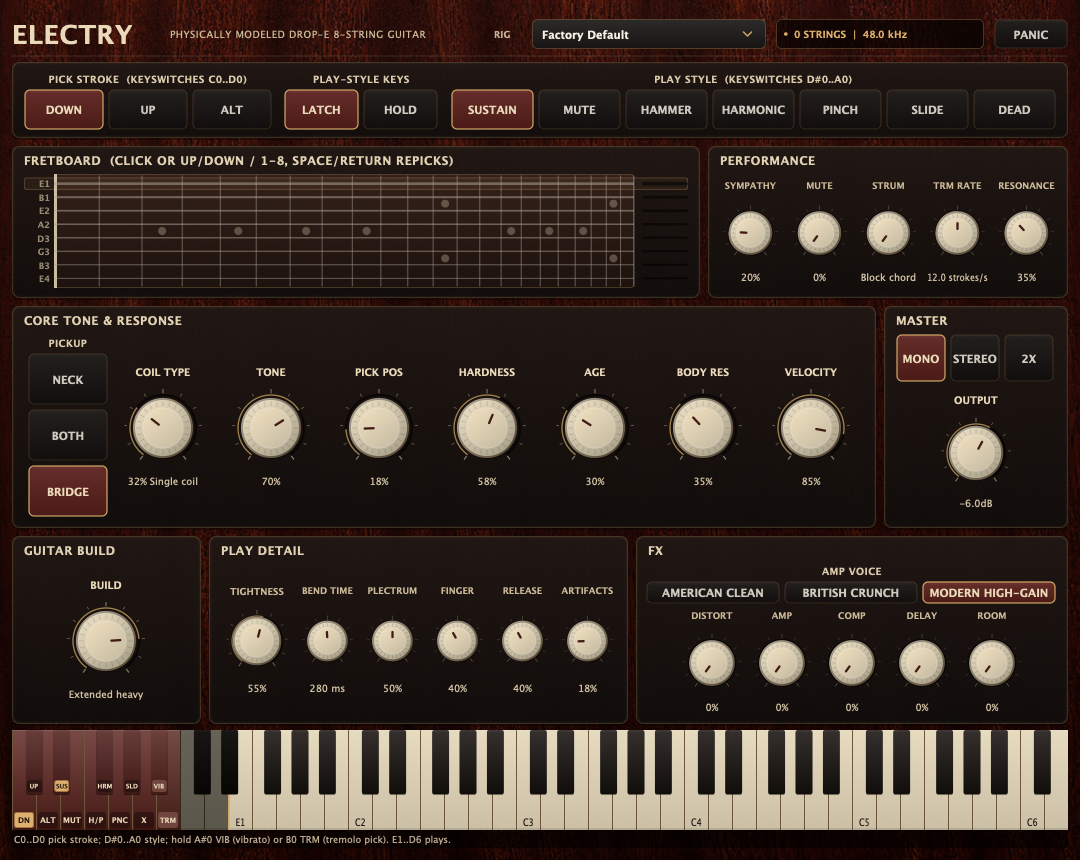
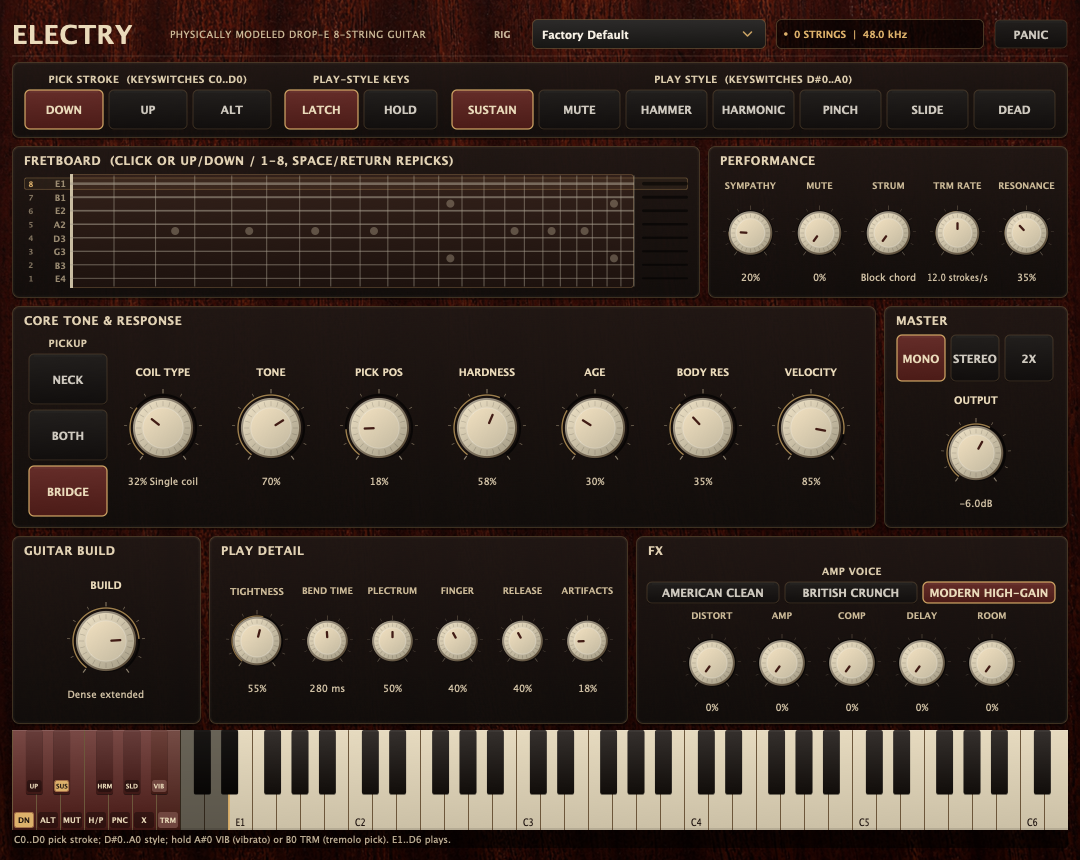
electry: label physical strings on fretboard

diff --git a/electry/Source/PluginEditor.cpp b/electry/Source/PluginEditor.cpp
@@ -976,7 +976,10 @@ void ElectryFretboardDisplay::paint (juce::Graphics& graphics)
     if (bounds.getWidth() < 120.0f || bounds.getHeight() < 40.0f)
         return;
 
-    auto tuningArea = bounds.removeFromLeft (26.0f);
+    // Keep the physical string number beside its tuning. The panel and
+    // keyboard instructions both expose 1-8 repicks, so showing only E1..E4
+    // here made that mapping needlessly implicit.
+    auto tuningArea = bounds.removeFromLeft (42.0f);
     auto meterArea = bounds.removeFromRight (54.0f);
     bounds.removeFromLeft (4.0f);
     meterArea.removeFromLeft (8.0f);
@@ -1155,13 +1158,23 @@ void ElectryFretboardDisplay::paint (juce::Graphics& graphics)
                 juce::Justification::centred);
         }
 
-        // Tuning label.
+        // Physical string number and tuning label.
+        auto labelBounds = juce::Rectangle<float> (
+            tuningArea.getX(), y - 6.0f, tuningArea.getWidth(), 12.0f);
+        auto stringNumberBounds = labelBounds.removeFromLeft (14.0f);
+        graphics.setColour (stringIndex == selectedString
+                                ? colours::accentBright
+                                : colours::dimText.withAlpha (0.58f));
+        graphics.setFont (juce::FontOptions (8.8f, juce::Font::bold));
+        graphics.drawText (juce::String (
+                               electry::ElectryEngine::stringCount - stringIndex),
+                           stringNumberBounds, juce::Justification::centred);
+
         graphics.setColour (ringing ? colours::binding
                                     : colours::dimText.withAlpha (0.72f));
         graphics.setFont (juce::FontOptions (10.2f, juce::Font::bold));
         graphics.drawText (tuningNames[static_cast<std::size_t> (stringIndex)],
-                           juce::Rectangle<float> (tuningArea.getX(), y - 6.0f,
-                                                   tuningArea.getWidth(), 12.0f),
+                           labelBounds,
                            juce::Justification::centredRight);
 
         // Per-string level meter.

diff --git a/electry/README.md b/electry/README.md
@@ -193,8 +193,9 @@ the `LATCH | HOLD` choice alone.
    (MIDI notes 28..86), the full range drawn on the on-screen piano.
    C0/C#0/D0 select Down, Up or Alternate picking.
 2. Keep a note or chord held and click its row in the live fretboard for one
-   hard repick without releasing the fretting key. Velocity-sensitive host or
-   controller playing uses MIDI E6..B6 for physical strings 8..1; those
+   hard repick without releasing the fretting key. The visible 8..1 column
+   uses the same physical-string order as the number keys. Velocity-sensitive
+   host or controller playing uses MIDI E6..B6 for physical strings 8..1; those
    performance triggers are not drawn as misleading pitched piano keys. If
    Hammer is latched, these dedicated picking-hand commands still make a
    neutral Sustain pick contact and leave the latch ready for the next note.
